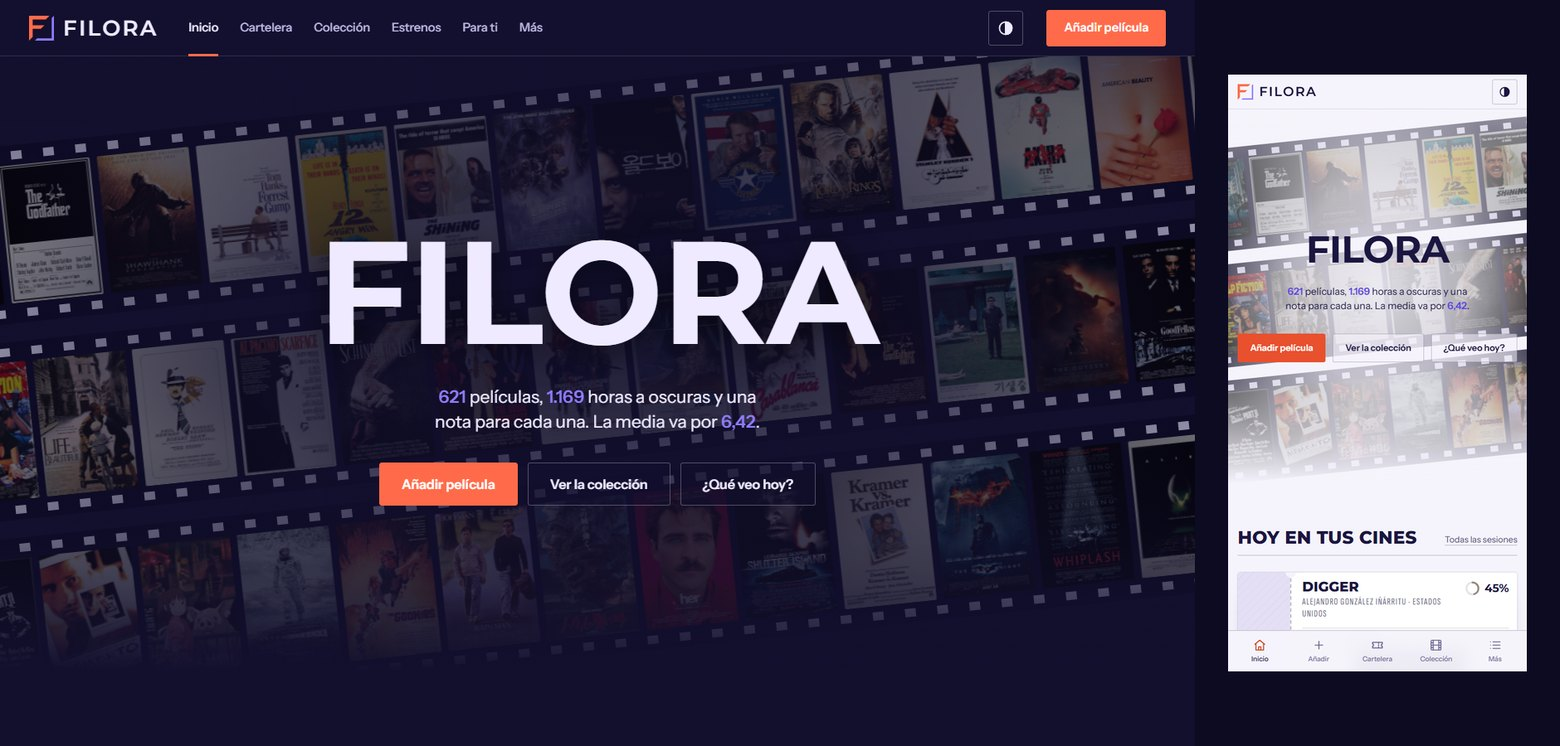
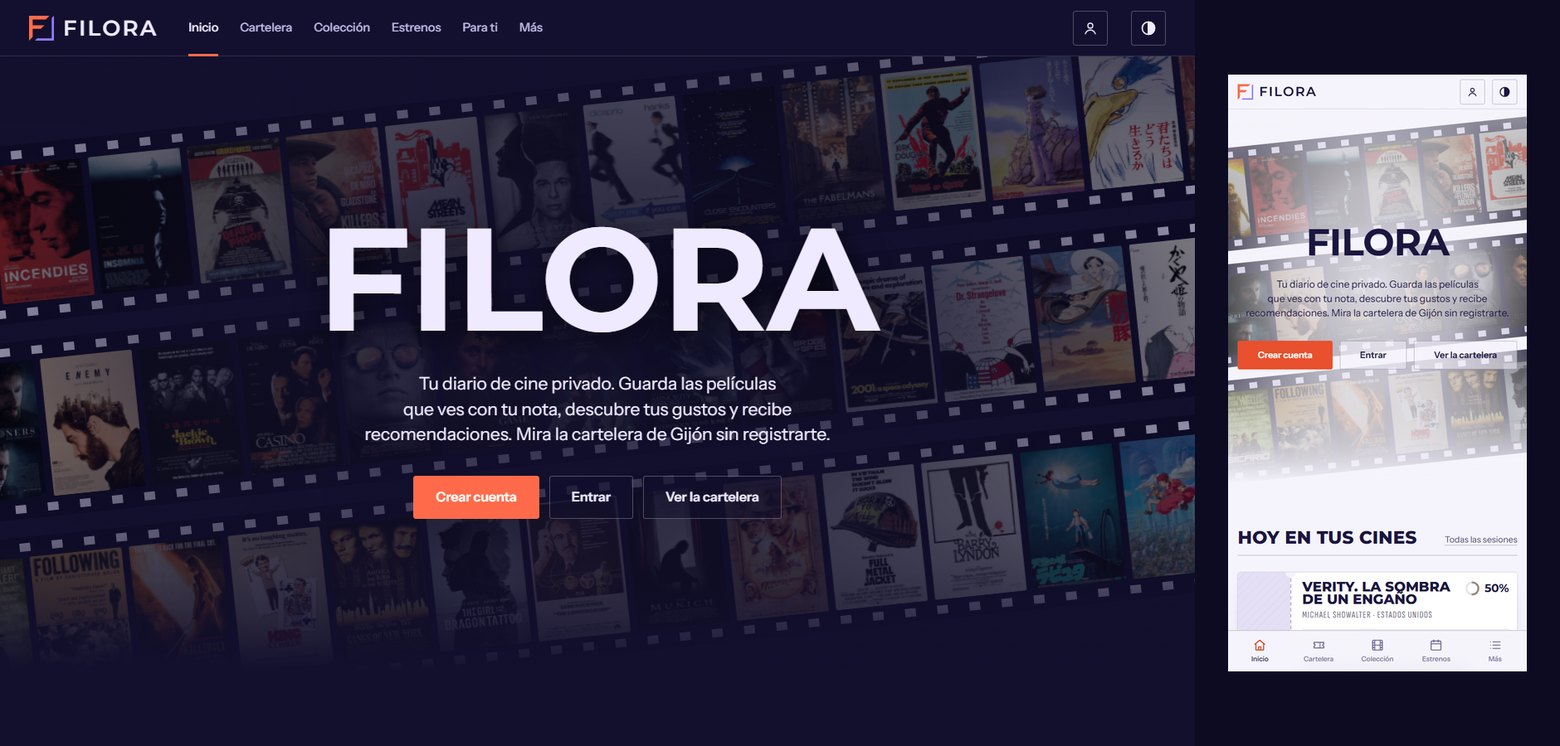
Colecciones privadas: sin cuenta no se ve ninguna
- /api/db sin sesión devuelve una colección vacía; la web ya no publica data/db.json.
- La cuenta del dueño (mcifu) solo se crea con el PIN y usa la colección que sincroniza el PC.
- Portada para visitantes con Crear cuenta / Entrar; textos públicos sin datos de la colección.
- El bot diario deja de copiar la colección al repositorio.

Changed region(s): [[0.0, 0.0, 0.9846, 0.8324], [0.8308, 0.7708, 0.9231, 0.8324], [0.8308, 0.8633, 0.8923, 0.8941]]

diff --git a/app/app.js b/app/app.js
@@ -140,7 +140,8 @@ const setSes = (s) => { try { s ? localStorage.setItem(SES_KEY, JSON.stringify(s
 const ro = () => STATIC && !getPin() && !getSes(); // solo lectura: web publicada sin cuenta ni PIN
 const authHeaders = () => { const ses = getSes(); return ses ? { Authorization: `Bearer ${ses.token}` } : getPin() ? { "X-Pin": getPin() } : {}; };
 document.documentElement.classList.toggle("ro", ro());
-const STATIC_FILES = { db: "data/db.json", estrenos: "data/estrenos.json", catalogo: "data/catalogo.json", cartelera: "data/cartelera.json" };
+const STATIC_FILES = { estrenos: "data/estrenos.json", catalogo: "data/catalogo.json", cartelera: "data/cartelera.json" };
+const coleccionVacia = () => ({ peliculas: [], series: [], pendientes: [], borrados: {}, estado: { web: true, privada: true } });
 
 async function api(path, opts = {}) {
   if (STATIC) {
@@ -151,7 +152,8 @@ async function api(path, opts = {}) {
         const r = await fetch("/api/db", { cache: "no-store", headers: authHeaders() });
         if (r.ok) return r.json();
         if (r.status === 401 && getSes()) { setSes(null); document.documentElement.classList.toggle("ro", ro()); toast("Tu sesión ha caducado. Vuelve a entrar", "user"); return api("db"); }
-      } catch (e) { /* sin función: copia estática */ }
+      } catch (e) { /* sin conexión con la API */ }
+      return coleccionVacia(); // las colecciones son privadas: sin cuenta no se publica ninguna
     }
     if (method === "GET" && (path === "cartelera" || path === "estrenos")) {
       // se actualizan cada día en GitHub: se leen de allí para no depender de un nuevo despliegue
@@ -298,7 +300,7 @@ function renderChrome() {
     $("#sideFoot").innerHTML = ses
       ? `<b style="color:var(--gold)">Hola, ${esc(ses.usuario)}</b><br><span class="dim">Tu colección se guarda en tu cuenta y la ves en cualquier dispositivo</span><br><a href="#" data-logout class="dim" style="text-decoration:underline">Salir</a>`
       : ro()
-      ? `<b>Colección de muestra</b><br><span class="dim">Solo lectura${f ? ` · actualizada el ${f}` : ""}</span><br><a href="#" data-login class="dim" style="text-decoration:underline">Crea tu cuenta o entra</a>`
+      ? `<b>Tu colección es privada</b><br><span class="dim">Crea una cuenta o entra para verla y editarla</span><br><a href="#" data-login class="dim" style="text-decoration:underline">Entrar</a>`
       : `<b style="color:var(--gold)">Modo edición</b><br><span class="dim">Los cambios se guardan en la web y llegan a tu PC</span><br><a href="#" data-logout class="dim" style="text-decoration:underline">Salir</a>`;
     const c = $("#cuenta");
     if (c) {
@@ -367,13 +369,18 @@ VIEWS.inicio = (v) => {
     <div class="reels" aria-hidden="true">${tiras.map(tira).join("")}</div>
     <div class="hero-content">
       <h1><span>Filora</span></h1>
-      <p class="hero-lead">${vacia
+      <p class="hero-lead">${vacia && ro()
+        ? `Tu diario de cine privado. Guarda las películas que ves con tu nota, descubre tus gustos y recibe recomendaciones. Mira la cartelera de Gijón sin registrarte.`
+        : vacia
         ? `Tu diario de cine empieza aquí. Añade las películas que has visto con tu nota y Filora aprenderá tus gustos para recomendarte qué ver.`
         : `<b>${fmtInt(pelis.length)}</b> películas, <b>${fmtInt(horas)}</b> horas a oscuras y una nota para cada una. La media va por <b>${fmt2(pr.mu)}</b>.`}</p>
-      <div class="hero-actions">
+      <div class="hero-actions">${ro() ? `
+        <a class="btn btn-primary" href="#" data-login="crear">Crear cuenta</a>
+        <a class="btn" href="#" data-login="entrar">Entrar</a>
+        <a class="btn" href="#/cartelera">Ver la cartelera</a>` : `
         <a class="btn btn-primary rw" href="#/anadir">${vacia ? "Añadir mi primera película" : "Añadir película"}</a>
         <a class="btn" href="#/coleccion">Ver la colección</a>
-        <a class="btn" href="#/recomendaciones">¿Qué veo hoy?</a>
+        <a class="btn" href="#/recomendaciones">¿Qué veo hoy?</a>`}
       </div>
     </div>
   </section>
@@ -1420,13 +1427,13 @@ function openLogin(modo = "entrar") {
       <label class="lbl" for="cPass" style="margin-top:12px">Contraseña</label>
       <input class="input" id="cPass" name="password" type="password" autocomplete="${crear ? "new-password" : "current-password"}" placeholder="${crear ? "Mínimo 6 caracteres" : ""}">
       ${crear ? `<label class="lbl" for="cPass2" style="margin-top:12px">Repite la contraseña</label><input class="input" id="cPass2" type="password" autocomplete="new-password">` : ""}
+      <div id="cPinBox" hidden><label class="lbl" for="cPinIn" style="margin-top:12px">PIN del dueño</label><input class="input" id="cPinIn" type="password" inputmode="numeric" autocomplete="off"></div>
       <p id="cErr" role="alert" style="color:var(--red);min-height:22px;margin:10px 0 6px"></p>
       <button class="btn btn-primary" id="cBtn" style="width:100%;justify-content:center">${icon(crear ? "plus" : "check")}${crear ? "Crear cuenta" : "Entrar"}</button>
     </form>
-    <p class="dim" style="margin:18px 0 0;font-size:13px;text-align:center"><a href="#" id="cPin" style="text-decoration:underline">¿Eres el dueño de la colección pública? Entrar con PIN</a></p></div>`, "narrow");
+    </div>`, "narrow");
   setTimeout(() => $("#cUser").focus(), 60);
   document.querySelectorAll(".cuenta-f [data-modo]").forEach((b) => (b.onclick = () => openLogin(b.dataset.modo)));
-  $("#cPin").onclick = (ev) => { ev.preventDefault(); openPin(); };
   const err = (m) => ($("#cErr").textContent = m);
   ["cUser", "cPass", "cPass2"].forEach((id) => { const el = document.getElementById(id); if (el) el.oninput = () => err(""); });
   $("#cuentaF").onsubmit = async (ev) => {
@@ -1437,8 +1444,10 @@ function openLogin(modo = "entrar") {
     if (crear && clave !== $("#cPass2").value) return err("Las contraseñas no coinciden.");
     const b = $("#cBtn"); b.disabled = true;
     try {
-      const r = await fetch(`/api/${crear ? "registro" : "entrar"}`, { method: "POST", headers: { "Content-Type": "application/json" }, body: JSON.stringify({ usuario, clave }) });
+      const pin = $("#cPinIn").value.trim();
+      const r = await fetch(`/api/${crear ? "registro" : "entrar"}`, { method: "POST", headers: { "Content-Type": "application/json" }, body: JSON.stringify({ usuario, clave, ...(pin ? { pin } : {}) }) });
       const j = await r.json().catch(() => ({}));
+      if (j.pedirPin) { $("#cPinBox").hidden = false; $("#cPinIn").focus(); }
       if (!r.ok) return err(j.error || "No se ha podido conectar. Inténtalo de nuevo.");
       setSes({ usuario: j.usuario, token: j.token });
       try { localStorage.removeItem(PIN_KEY); } catch (e) { /* */ }
@@ -1741,7 +1750,7 @@ document.addEventListener("click", async (e) => {
   const t = e.target.closest("[data-open],[data-cat],[data-rel],[data-edit],[data-del],[data-fav],[data-close],[data-action],[data-want],[data-seen],[data-nope],[data-wseen],[data-wdel],[data-relwant],[data-relseen],[data-serie],[data-sedit],[data-sdel],[data-more],[data-cday],[data-ccine],[data-login],[data-logout],[data-cuenta]");
   if (!t) return;
   const d = t.dataset;
-  if (d.login !== undefined) { e.preventDefault(); return openLogin(); }
+  if (d.login !== undefined) { e.preventDefault(); return openLogin(d.login === "crear" ? "crear" : "entrar"); }
   if (d.cuenta !== undefined) { e.preventDefault(); return openCuenta(); }
   if (d.logout !== undefined) { e.preventDefault(); closeModal(); return logout(); }
   if (ro() && ["action", "edit", "del", "fav", "want", "seen", "relwant", "relseen", "wseen", "wdel", "sedit", "sdel"].some((k) => d[k] !== undefined)) return;

diff --git a/api/filora.js b/api/filora.js
@@ -1,15 +1,20 @@
-// API de Filora en Vercel.
-// - Sin sesión: la colección pública del dueño (lectura); el dueño edita con su PIN.
-// - Con cuenta (usuario y contraseña): cada usuario lee y edita solo su colección.
+// API de Filora en Vercel. Todas las colecciones son privadas:
+// - Sin sesión no se ve ninguna colección (solo cartelera, estrenos y recomendaciones).
+// - Con cuenta (usuario y contraseña) cada usuario lee y edita solo la suya.
+// - La cuenta del dueño (OWNER_USER, por defecto "mcifu") usa su colección de siempre
+//   (filora/db.json, la que sincroniza el PC con el PIN); para crearla hace falta el PIN.
 // Los datos se guardan en Vercel Blob. Las cuentas y colecciones de usuario van en
 // rutas con una parte aleatoria, así que sus direcciones no se pueden adivinar.
 // Rutas (vercel.json): /api/<ruta> -> ?ruta=<ruta>
 import { randomBytes } from "node:crypto";
+import { readFile } from "node:fs/promises";
+import { join } from "node:path";
 import { head, list, put } from "@vercel/blob";
 import { COLECCIONES, actualizar, borrar, crear, fusionar, pinValido } from "../lib/filora.mjs";
 import { claveValida, crearSesion, hashClave, leerSesion, normalizarUsuario, nuevaColeccion, verificarClave } from "../lib/cuentas.mjs";
 
 const CLAVE = "filora/db.json";
+const DUENO = (process.env.OWNER_USER || "mcifu").toLowerCase();
 const hayAlmacen = () => !!process.env.BLOB_READ_WRITE_TOKEN;
 
 const json = (data, status = 200) =>
@@ -21,7 +26,9 @@ const leerJSON = async (url) => {
   return r.ok ? r.json() : null;
 };
 
-async function cargar(req) {
+// Colección del dueño: la guardada en Blob o, la primera vez, la copia del repositorio
+// (data/db.json va dentro de la función, no se publica en la web).
+async function cargar() {
   if (hayAlmacen()) {
     try {
       const h = await head(CLAVE);
@@ -31,9 +38,11 @@ async function cargar(req) {
       /* aún no hay nada guardado */
     }
   }
-  const r = await fetch(new URL("/data/db.json", req.url));
-  if (!r.ok) throw new Error("No hay datos iniciales");
-  return r.json();
+  try {
+    return JSON.parse(await readFile(join(process.cwd(), "data", "db.json"), "utf-8"));
+  } catch (e) {
+    return nuevaColeccion();
+  }
 }
 
 const guardar = (db, ruta = CLAVE) =>
@@ -54,9 +63,10 @@ async function leerCuenta(usuario) {
   return blobs[0] ? leerJSON(blobs[0].url) : null;
 }
 
-const rutaDatos = (c) => `filora/usuarios/${c.usuario}/${c.carpeta}/datos.json`;
+const rutaDatos = (c) => (c.dueno ? CLAVE : `filora/usuarios/${c.usuario}/${c.carpeta}/datos.json`);
 
 async function cargarUsuario(c) {
+  if (c.dueno) return cargar();
   try {
     const h = await head(rutaDatos(c));
     return (await leerJSON(h.url)) || nuevaColeccion();
@@ -80,9 +90,14 @@ async function registroOEntrada(req, accion) {
   const cuenta = await leerCuenta(usuario);
   if (accion === "registro") {
     if (cuenta) return json({ error: "Ese usuario ya existe. Prueba con otro o entra con tu contraseña." }, 409);
-    const nueva = { usuario, clave: hashClave(b.clave), carpeta: randomBytes(12).toString("hex"), creado: new Date().toISOString() };
+    const dueno = usuario === DUENO;
+    if (dueno && !pinValido(String(b.pin || ""), process.env.EDIT_PIN)) {
+      await espera(800);
+      return json({ error: "Este usuario es el del dueño: escribe también tu PIN para crearlo.", pedirPin: true }, 403);
+    }
+    const nueva = { usuario, clave: hashClave(b.clave), carpeta: randomBytes(12).toString("hex"), creado: new Date().toISOString(), ...(dueno ? { dueno: true } : {}) };
     await put(`filora/usuarios/${usuario}/cuenta.json`, JSON.stringify(nueva), { access: "public", addRandomSuffix: true, contentType: "application/json" });
-    await guardar(nuevaColeccion(), rutaDatos(nueva));
+    if (!dueno) await guardar(nuevaColeccion(), rutaDatos(nueva));
     return json({ usuario, token: crearSesion(usuario, await secreto()) }, 201);
   }
   if (!cuenta || !verificarClave(b.clave, cuenta.clave)) {
@@ -140,12 +155,11 @@ async function manejar(req) {
       return await operar(req, partes, db, (d) => guardar(d, rutaDatos(cuenta)));
     }
 
-    // ---- colección pública del dueño (lectura libre, edición con PIN)
-    if (req.method === "GET" && partes[0] === "db") {
-      const db = await cargar(req);
-      return json({ ...db, estado: { web: true, edicion: !!process.env.EDIT_PIN && hayAlmacen(), cuentas: hayAlmacen() } });
-    }
+    // ---- sin cuenta: ninguna colección (es privada); el PC del dueño entra con el PIN
     const pinCorrecto = process.env.EDIT_PIN;
+    if (req.method === "GET" && partes[0] === "db" && !req.headers.get("x-pin")) {
+      return json({ ...nuevaColeccion(), estado: { web: true, privada: true, cuentas: hayAlmacen() } });
+    }
     if (!pinCorrecto) return json({ error: "La edición no está activada: falta la variable EDIT_PIN en Vercel." }, 403);
     if (!pinValido(req.headers.get("x-pin"), pinCorrecto)) {
       await espera(800); // frena intentos a ciegas
@@ -153,7 +167,8 @@ async function manejar(req) {
     }
     if (!hayAlmacen()) return json({ error: "Falta conectar el almacenamiento: en Vercel, Storage → Create → Blob." }, 503);
     if (req.method === "POST" && partes[0] === "login") return json({ ok: true });
-    return await operar(req, partes, await cargar(req), (d) => guardar(d));
+    if (req.method === "GET" && partes[0] === "db") return json({ ...(await cargar()), estado: { web: true, edicion: true } });
+    return await operar(req, partes, await cargar(), (d) => guardar(d));
   } catch (e) {
     console.error(e);
     return json({ error: e instanceof Error ? e.message : "Error" }, 500);

diff --git a/app/index.html b/app/index.html
@@ -8,11 +8,11 @@
 <meta name="theme-color" content="#13102e" media="(prefers-color-scheme: dark)">
 <meta name="theme-color" content="#f5f3fb" media="(prefers-color-scheme: light)">
 <script>try{var t=localStorage.getItem("filora.tema");if(t==="light"||t==="dark")document.documentElement.dataset.theme=t}catch(e){}</script>
-<meta name="description" content="Mi diario de cine: 621 películas puntuadas, estadísticas, gustos, recomendaciones y la cartelera de Gijón.">
+<meta name="description" content="Tu diario de cine privado: guarda tus películas con nota, descubre tus gustos, recibe recomendaciones y mira la cartelera de Gijón.">
 <meta property="og:type" content="website">
 <meta property="og:site_name" content="Filora">
 <meta property="og:title" content="Filora · mi vida en el cine">
-<meta property="og:description" content="621 películas puntuadas, estadísticas, mis gustos, recomendaciones y la cartelera de Gijón.">
+<meta property="og:description" content="Tu diario de cine privado: películas con nota, gustos, recomendaciones y la cartelera de Gijón.">
 <meta property="og:url" content="https://filora.vercel.app/">
 <meta property="og:image" content="https://filora.vercel.app/og.jpg">
 <meta property="og:image:width" content="1200">

diff --git a/tools/build_static.py b/tools/build_static.py
@@ -1,6 +1,8 @@
 """Genera la versión web de solo lectura (para Netlify u otro hosting estático).
 
-    python tools/build_static.py   ->  app/data/{db,estrenos,catalogo}.json
+    python tools/build_static.py   ->  app/data/{estrenos,catalogo,cartelera}.json
+
+La colección (data/db.json) NO se publica: es privada y solo la sirve la API a su dueño.
 
 Netlify lo ejecuta en cada despliegue (ver netlify.toml), así la web pública
 siempre muestra lo último que hayas subido a GitHub. No necesita librerías.
@@ -18,16 +20,14 @@ OUT = ROOT / "app" / "data"
 
 def main():
     OUT.mkdir(parents=True, exist_ok=True)
-    db = json.loads((ROOT / "data" / "db.json").read_text(encoding="utf-8"))
-    db.pop("estado", None)
-    db.pop("config", None)
+    (OUT / "db.json").unlink(missing_ok=True)
     est = json.loads((ROOT / "data" / "estrenos.json").read_text(encoding="utf-8"))
     cart_path = ROOT / "data" / "cartelera.json"
     cart = json.loads(cart_path.read_text(encoding="utf-8")) if cart_path.exists() else {"cines": []}
-    files = {"db.json": db, "estrenos.json": est, "catalogo.json": load_catalog(), "cartelera.json": cart}
+    files = {"estrenos.json": est, "catalogo.json": load_catalog(), "cartelera.json": cart}
     for name, data in files.items():
         (OUT / name).write_text(json.dumps(data, ensure_ascii=False, separators=(",", ":")), encoding="utf-8")
-    print(f"Web estática lista en app/data: {len(db['peliculas'])} películas, "
+    print(f"Web estática lista en app/data (sin colección, es privada): "
           f"{len(est.get('estrenos', []))} estrenos, {len(files['catalogo.json'])} recomendaciones")
 
 

diff --git a/README.md b/README.md
@@ -5,7 +5,7 @@
   </picture>
 </p>
 
-<p align="center"><b>Mi diario de cine.</b> Colección puntuada, estadísticas, gustos, recomendaciones y la cartelera de Gijón.</p>
+<p align="center"><b>Tu diario de cine privado.</b> Colección puntuada, estadísticas, gustos, recomendaciones y la cartelera de Gijón.</p>
 
 <p align="center"><a href="https://filora.vercel.app">filora.vercel.app</a></p>
 
@@ -18,7 +18,7 @@
 - **Cartelera y estrenos**: sesiones reales de Ocine Los Fresnos y Yelmo Ocimax Gijón, y estrenos en España, actualizados cada día.
 - **Para ti**: recomendaciones con la nota que predice que le pondrías.
 - **Estadísticas y gustos**: notas, décadas, géneros, directores…
-- **Cuentas**: cualquiera puede crear su cuenta con usuario y contraseña y llevar su propia colección; sin cuenta se ve la colección de muestra.
+- **Cuentas privadas**: cada persona crea su cuenta con usuario y contraseña y solo ella ve su colección. Sin cuenta solo se ven la cartelera, los estrenos y las recomendaciones.
 - **App instalable** (PWA), funciona sin conexión, con tema claro y oscuro, en móvil, tableta y ordenador.
 - **Excel sincronizado** (`Filora.xlsx`) en el PC.
 
@@ -32,7 +32,7 @@ python server.py
 
 O doble clic en `Iniciar.bat` → http://localhost:8765
 
-La web pública está en Vercel, con los datos en Vercel Blob. Sin cuenta se ve la colección de muestra (el dueño la edita con su PIN, `EDIT_PIN`). Cada cuenta guarda su colección aparte; las contraseñas se guardan cifradas con scrypt.
+La web pública está en Vercel, con los datos en Vercel Blob. Ninguna colección es pública: cada cuenta guarda la suya aparte y las contraseñas se guardan cifradas con scrypt. La cuenta del dueño (`OWNER_USER`, por defecto `mcifu`) solo se puede crear con el PIN (`EDIT_PIN`) y usa la misma colección que sincroniza el PC.
 
 ## Estructura
 

diff --git a/CLAUDE.md b/CLAUDE.md
@@ -22,3 +22,4 @@ App local para llevar el registro de las películas que veo, con Excel sincroniz
 - Enlace directo a una ficha: `#/coleccion?ficha=<id>`.
 
 - Cuentas (web): `/api/registro` y `/api/entrar` devuelven una sesión firmada (`lib/cuentas.mjs`, scrypt + HMAC, 180 días). Cada usuario tiene `filora/usuarios/<usuario>/<carpeta aleatoria>/datos.json` en Blob; sin sesión se sirve la colección del dueño. Opcional: variable `AUTH_SECRET` (si no, se genera y guarda en Blob). Pruebas: `npm test`.
+- Privacidad: sin sesión `/api/db` devuelve una colección vacía; `build_static.py` ya no publica `app/data/db.json`; `data/db.json` solo va dentro de la función (`includeFiles`). La cuenta `OWNER_USER` (mcifu) exige el PIN al registrarse y lee/escribe `filora/db.json`. El bot diario ya no hace copia de la colección.
